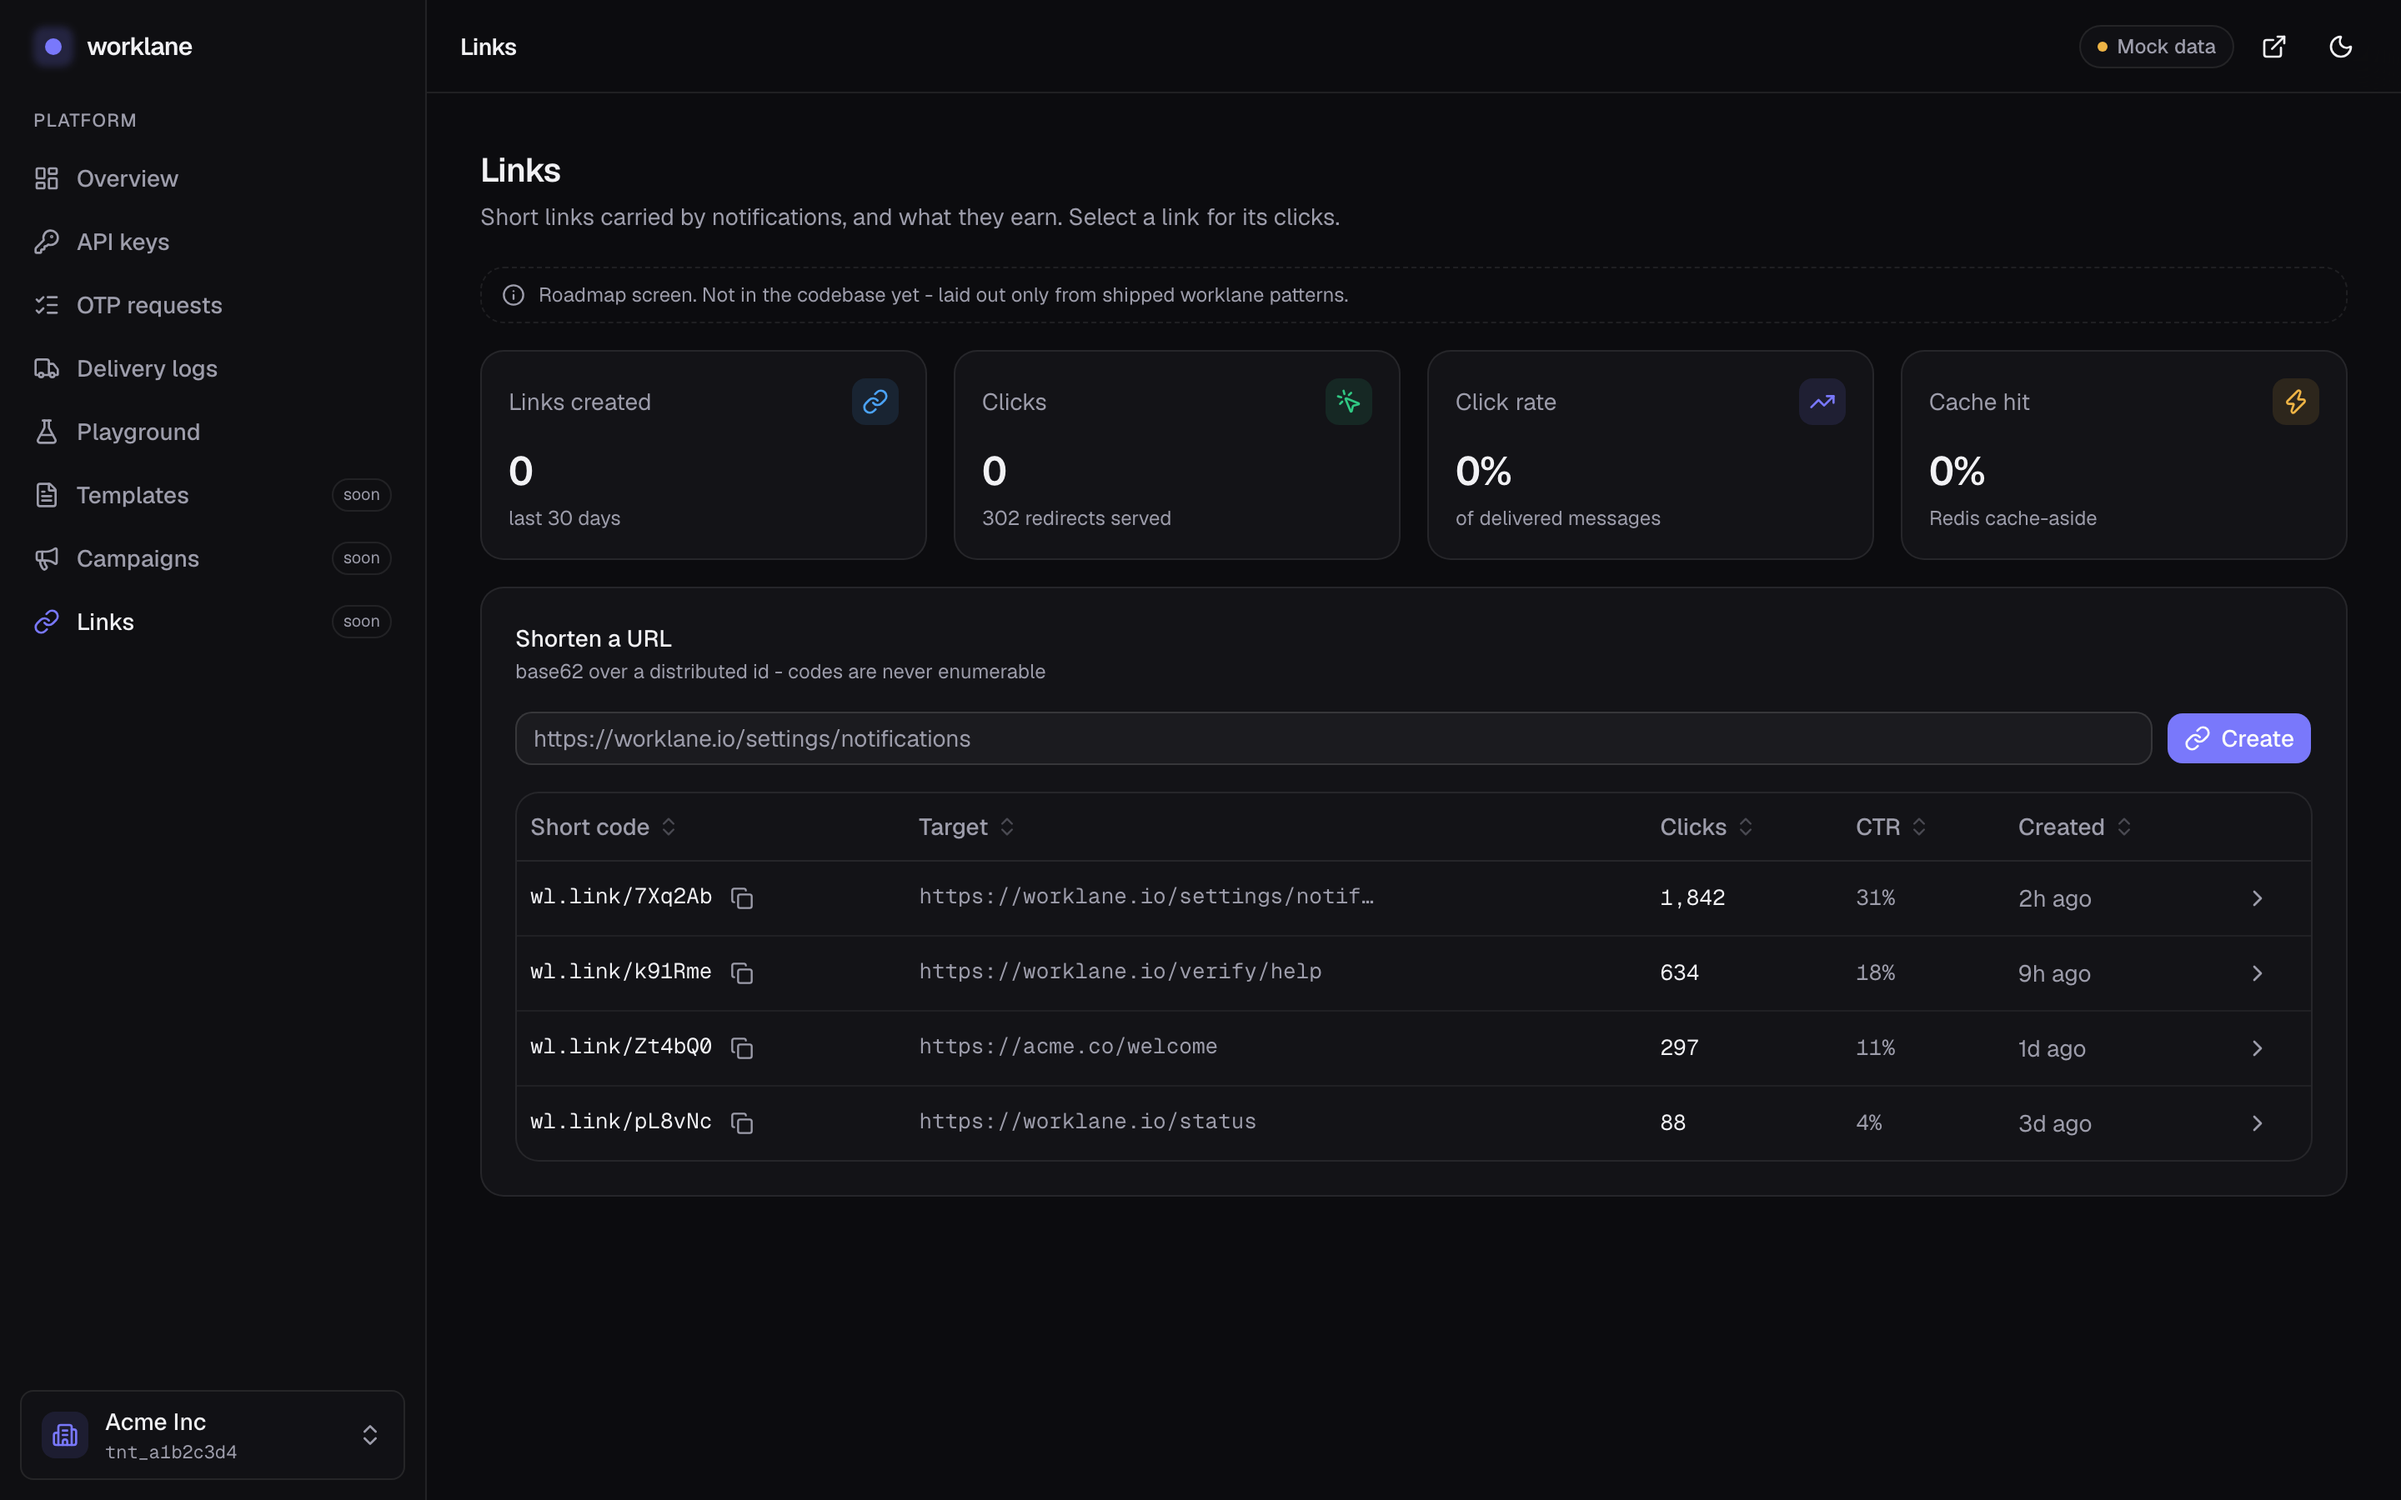
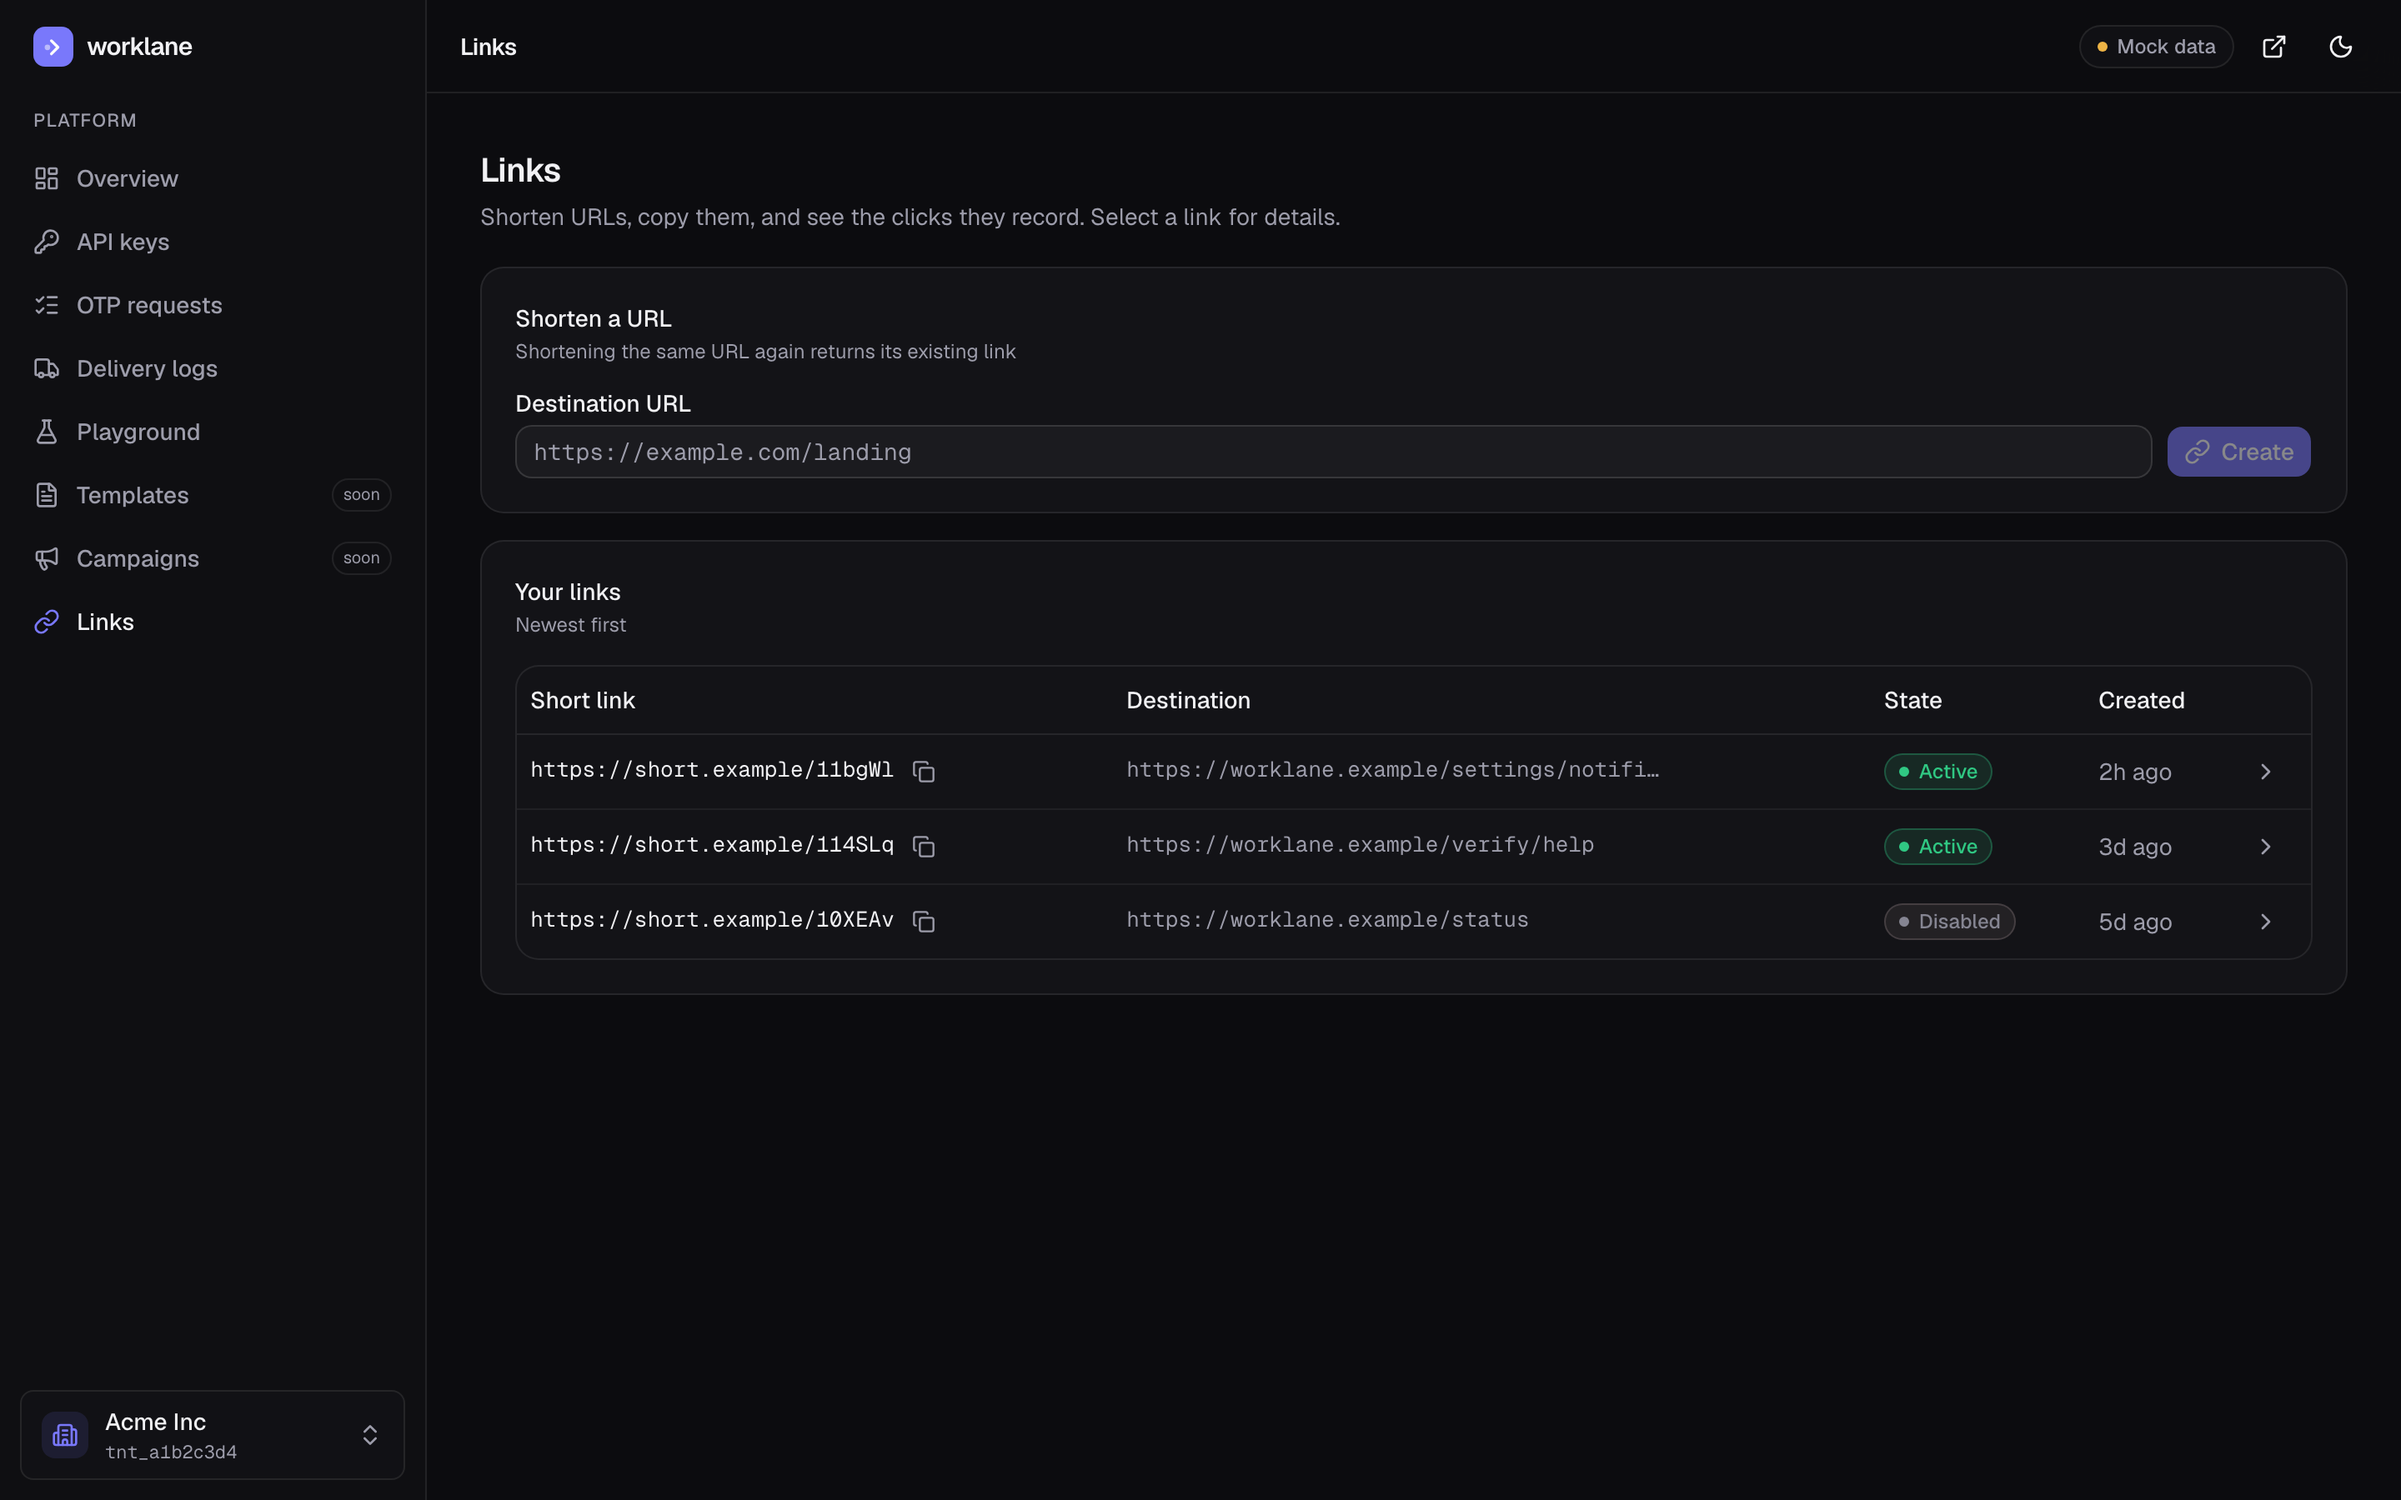
fix(dashboard): name today as the busiest UTC day and refresh Links captures

diff --git a/dashboard/components/links/link-detail.tsx b/dashboard/components/links/link-detail.tsx
@@ -215,7 +215,11 @@ function AnalyticsBody({ data }: { data: LinkAnalytics }) {
           label="Busiest day"
           icon={CalendarDays}
           accent="var(--state-requested)"
-          hint={peak ? `${dayLabel(peak.date)} (UTC)` : "no clicks in the last 14 days"}
+          hint={
+            peak
+              ? `${peak.date === data.series.at(-1)?.date ? "Today" : dayLabel(peak.date)} (UTC)`
+              : "no clicks in the last 14 days"
+          }
         >
           {peak ? peak.clicks.toLocaleString("en-US") : "-"}
         </StatCard>
